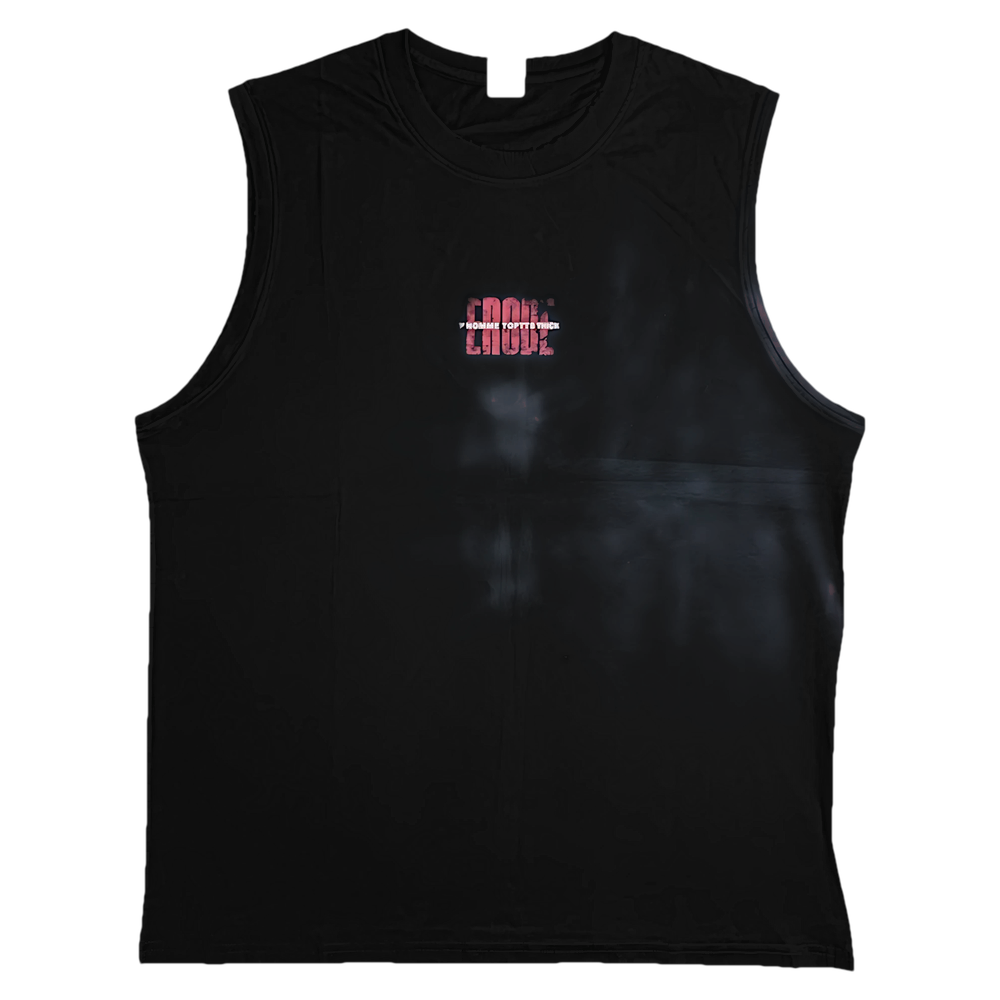
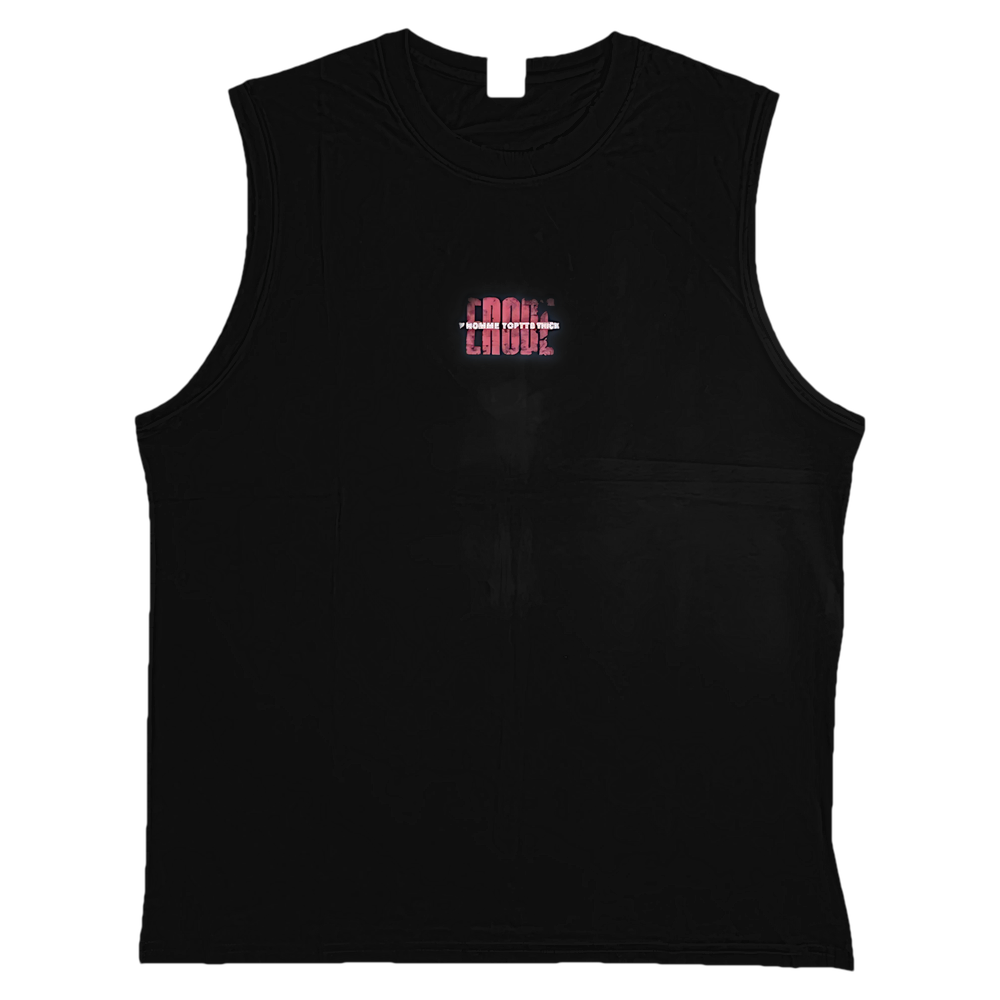
Menos Más negro espalda y Erosión negro frente: destellos de tela eliminados; VER 89
Claude-Session: https://claude.ai/code/session_01M565qPfcAdMyhhBySsLorX

diff --git a/index.html b/index.html
@@ -783,7 +783,7 @@ let VARS = [];
 const slug = t => t.toLowerCase().normalize("NFD").replace(/[\u0300-\u036f]/g,"").replace(/[^a-z0-9]+/g,"-");
 const vid = v => v.d.id;
 const hashProd = (d,c) => "#producto-"+d.id+(d.colores.length>1 && c && c!==d.colores[0] ? "-"+slug(c) : "");
-const VER = "88";
+const VER = "89";
 const cb = p => p + (p.includes("?")?"&":"?") + "v=" + VER;
 const hashSec = () => SEC==="polos" ? "#polos" : SEC==="dvd" ? "#dvd" : "";
 const COMUN = 150;
